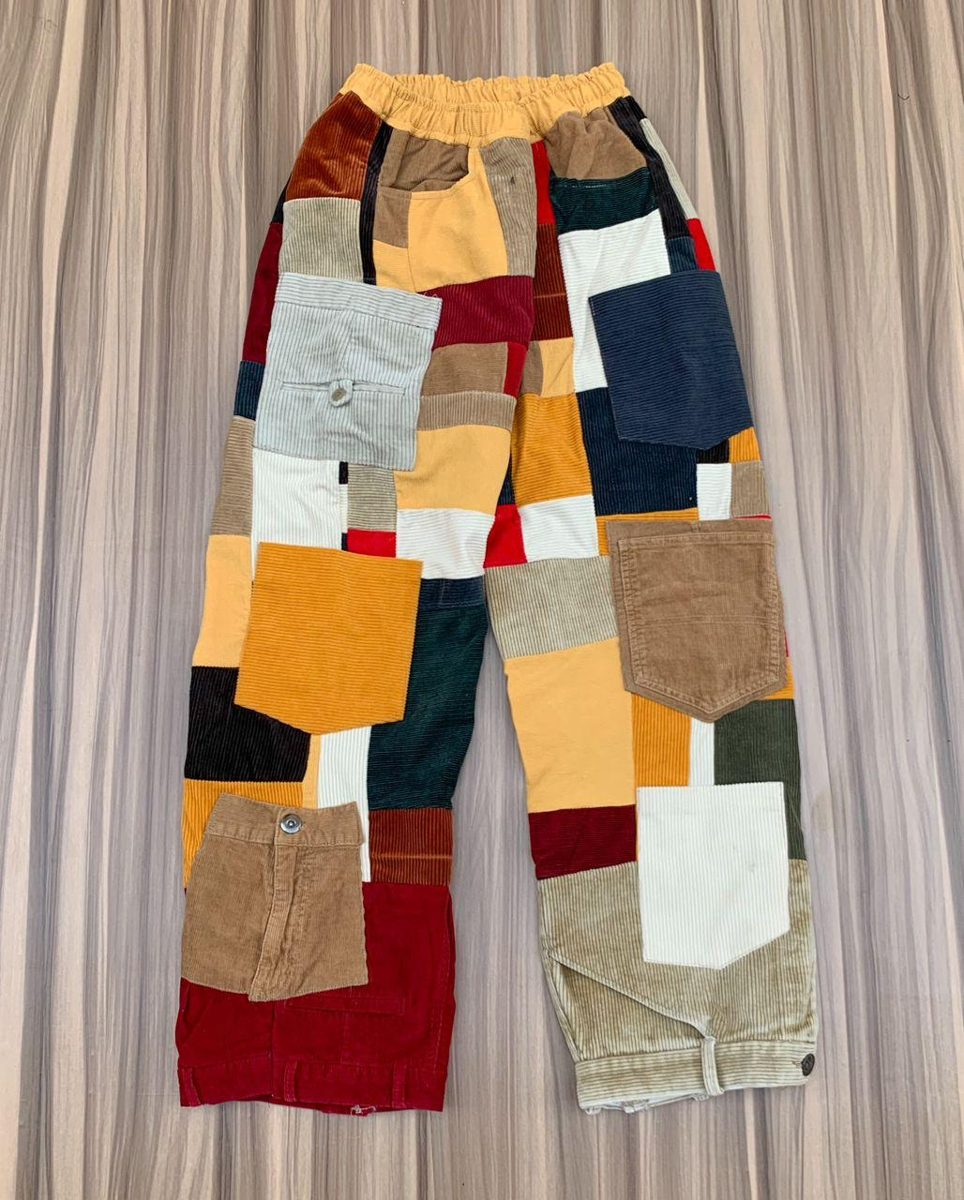
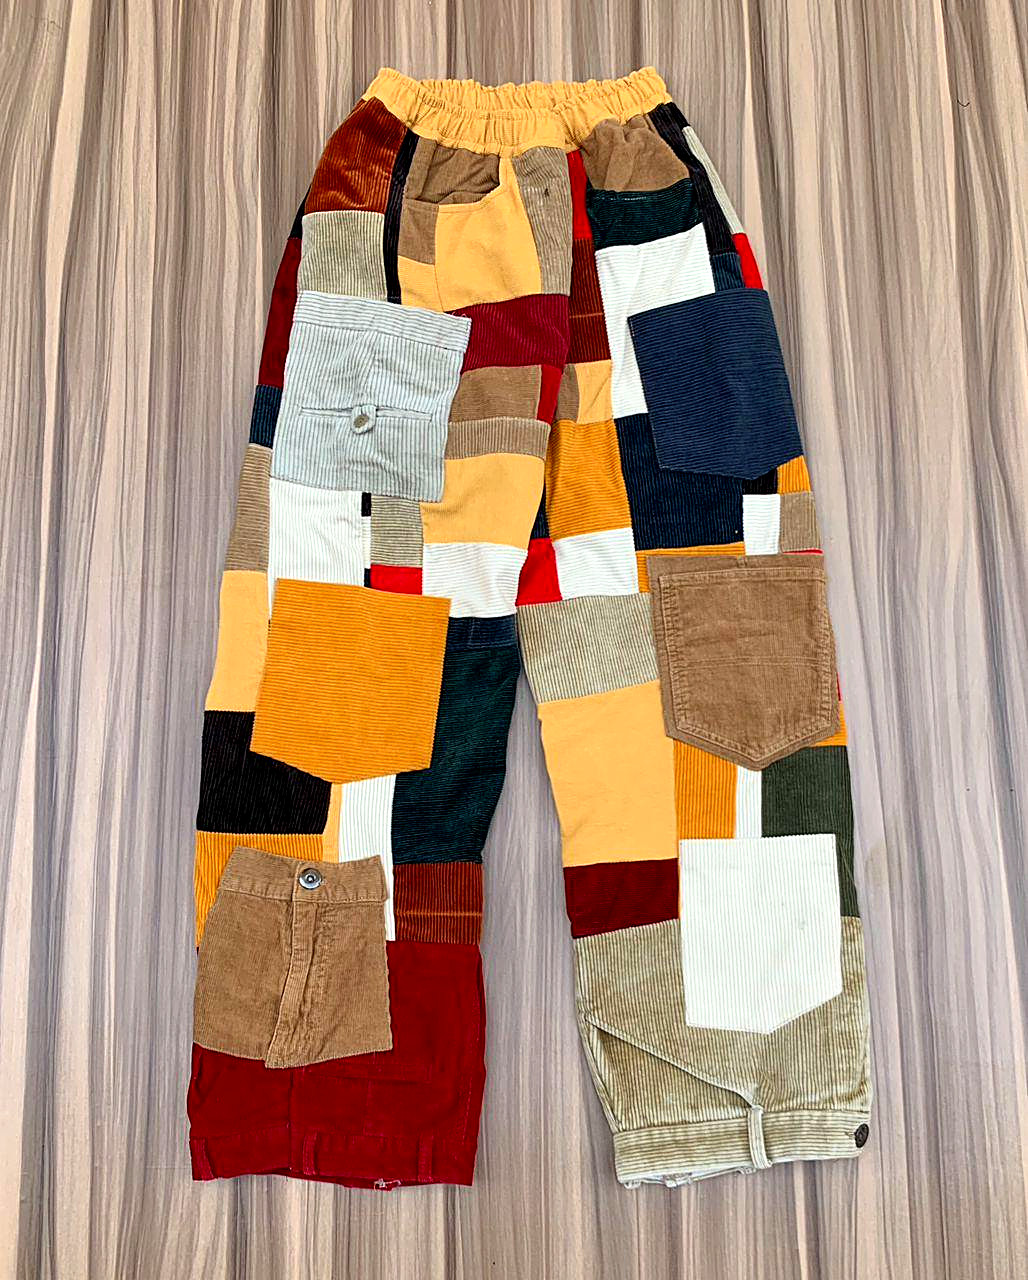
KACE: sharper, richer photos served at the right size
- Re-processed every photo from the originals at up to 2000px: phone photos and
  screenshots get a gentle levels, colour and contrast lift, small ones are
  enlarged up to 2x, and all are sharpened lightly; professional shoots keep
  their own edit. Saved as quality-90 JPEG without camera or location data
- scripts/prepare_photos.py makes this repeatable for new photos
- All photos now go through next/image (new Photo component): AVIF/WebP at the
  right width for each screen and retina display, with priority loading for the
  first images on a page
- Homepage hero now leads with a Lookbook shoot photo beside two patchwork pieces

Claude-Session: https://claude.ai/code/session_0174vh4CrbubMbbCDjb7WMt2

diff --git a/kace-collections/src/app/page.tsx b/kace-collections/src/app/page.tsx
@@ -1,6 +1,7 @@
 import Link from "next/link";
 import { findProducts, PRODUCTS } from "@/lib/catalogue";
 import { LOOKS } from "@/lib/lookbook";
+import { Photo } from "@/components/Photo";
 import { ProductArt } from "@/components/ProductArt";
 import { ProductGrid } from "@/components/ProductCard";
 
@@ -10,7 +11,8 @@ export const revalidate = 3600;
 export default function Home() {
   const newest = findProducts({ sort: "newest" }).slice(0, 4);
   const onSale = findProducts({ sale: true }).slice(0, 4);
-  const heroPieces = ["patchwork-corduroy-set", "patchwork-denim-jacket", "patchwork-corduroy-trousers"].map((s) => PRODUCTS.find((p) => p.slug === s)!);
+  const heroPieces = ["patchwork-corduroy-set", "patchwork-denim-jacket"].map((s) => PRODUCTS.find((p) => p.slug === s)!);
+  const heroLook = LOOKS.find((l) => l.slug === "cream-and-black")!;
   const women = PRODUCTS.find((p) => p.slug === "print-trim-tunic-set")!;
   const men = PRODUCTS.find((p) => p.slug === "brown-denim-cargo-set")!;
 
@@ -31,12 +33,12 @@ export default function Home() {
           </div>
         </div>
         <div className="grid grid-cols-[1.3fr_1fr] gap-3">
-          <Link href={`/products/${heroPieces[0].slug}`} className="row-span-2 bg-sand">
-            <ProductArt product={heroPieces[0]} className="h-full w-full" />
+          <Link href={`/lookbook#${heroLook.slug}`} className="row-span-2">
+            <Photo src={heroLook.photos[0].src} alt={heroLook.photos[0].alt} className="h-full min-h-80 w-full" sizes="(min-width: 768px) 30vw, 58vw" priority focus="50% 30%" />
           </Link>
-          {heroPieces.slice(1).map((p) => (
-            <Link key={p.slug} href={`/products/${p.slug}`} className="bg-sand">
-              <ProductArt product={p} className="aspect-[3/4] w-full" />
+          {heroPieces.map((p) => (
+            <Link key={p.slug} href={`/products/${p.slug}`}>
+              <ProductArt product={p} className="aspect-[3/4] w-full" sizes="(min-width: 768px) 20vw, 40vw" priority />
             </Link>
           ))}
         </div>
@@ -71,8 +73,7 @@ export default function Home() {
 
       <section className="gutter mx-auto mt-20 grid max-w-7xl items-center gap-8 md:grid-cols-[1fr_1.1fr]">
         <Link href="/lookbook" className="group block overflow-hidden bg-sand">
-          {/* eslint-disable-next-line @next/next/no-img-element */}
-          <img src={LOOKS[0].photos[0].src} alt={LOOKS[0].photos[0].alt} loading="lazy" className="aspect-[4/5] w-full object-cover transition-transform duration-500 group-hover:scale-[1.03]" />
+          <Photo src={LOOKS[0].photos[0].src} alt={LOOKS[0].photos[0].alt} className="aspect-[4/5] w-full transition-transform duration-500 group-hover:scale-[1.03]" sizes="(min-width: 768px) 45vw, 100vw" focus="50% 35%" />
         </Link>
         <div className="space-y-5">
           <p className="eyebrow text-forest">Lookbook and custom orders</p>
@@ -97,8 +98,7 @@ export default function Home() {
       <section className="gutter mx-auto mt-20 max-w-7xl">
         <div className="grid gap-8 bg-ink p-8 text-paper md:grid-cols-[1fr_1.2fr] md:items-center md:p-14">
           <figure className="space-y-2">
-            {/* eslint-disable-next-line @next/next/no-img-element */}
-            <img src="/products/kwadwoman-patchwork-shoot.jpg" alt="Two models in Kwadwo Man patchwork corduroy jackets and trousers" loading="lazy" className="w-full" />
+            <Photo src="/products/kwadwoman-patchwork-shoot.jpg" alt="Two models in Kwadwo Man patchwork corduroy jackets and trousers" className="aspect-[1656/1748] w-full" sizes="(min-width: 768px) 40vw, 100vw" />
             <figcaption className="text-xs text-paper/60">Patchwork corduroy by Kwadwo Man</figcaption>
           </figure>
           <div className="space-y-4 text-paper/80">

diff --git a/kace-collections/src/app/lookbook/page.tsx b/kace-collections/src/app/lookbook/page.tsx
@@ -1,5 +1,6 @@
 import type { Metadata } from "next";
 import Link from "next/link";
+import { Photo } from "@/components/Photo";
 import { PageHeader } from "@/components/Prose";
 import { ProductCard } from "@/components/ProductCard";
 import { getProduct } from "@/lib/catalogue";
@@ -20,13 +21,11 @@ export default function Lookbook() {
           return (
             <article key={look.slug} id={look.slug} className="grid scroll-mt-32 items-center gap-8 md:grid-cols-2 md:gap-14">
               <figure className={i % 2 ? "md:order-2" : undefined}>
-                {/* eslint-disable-next-line @next/next/no-img-element */}
-                <img src={look.photos[0].src} alt={look.photos[0].alt} loading={i ? "lazy" : "eager"} className="aspect-[2/3] w-full object-cover" />
+                <Photo src={look.photos[0].src} alt={look.photos[0].alt} className="aspect-[2/3] w-full" sizes="(min-width: 768px) 48vw, 100vw" priority={i === 0} />
                 {look.photos.length > 1 && (
                   <div className="mt-3 grid grid-cols-3 gap-3">
                     {look.photos.slice(1).map((photo) => (
-                      // eslint-disable-next-line @next/next/no-img-element
-                      <img key={photo.src} src={photo.src} alt={photo.alt} loading="lazy" className="aspect-[3/4] w-full object-cover" />
+                      <Photo key={photo.src} src={photo.src} alt={photo.alt} className="aspect-[3/4] w-full" sizes="(min-width: 768px) 16vw, 33vw" />
                     ))}
                   </div>
                 )}

diff --git a/kace-collections/src/components/ProductArt.tsx b/kace-collections/src/components/ProductArt.tsx
@@ -1,6 +1,7 @@
 // Drawn artwork standing in for product photos until real ones arrive:
 // the garment's outline filled with its cloth.
 import type { PatternKind, Product, Silhouette } from "@/lib/catalogue";
+import { Photo } from "./Photo";
 
 const SHAPES: Record<Silhouette, string> = {
   dress: "M116 56 Q150 80 184 56 L236 76 L262 158 L226 168 L214 132 L230 352 L70 352 L86 132 L74 168 L38 158 L64 76 Z",
@@ -96,10 +97,11 @@ function Fill({ id, kind, colors }: { id: string; kind: PatternKind; colors: str
   }
 }
 
-export function ProductArt({ product, className = "" }: { product: Product; className?: string }) {
+const CARD_SIZES = "(min-width: 1024px) 22vw, (min-width: 768px) 30vw, 50vw";
+
+export function ProductArt({ product, className = "", sizes = CARD_SIZES, priority }: { product: Product; className?: string; sizes?: string; priority?: boolean }) {
   if (product.photo) {
-    // eslint-disable-next-line @next/next/no-img-element -- plain img keeps the photo crisp at every card size
-    return <img src={product.photo.src} alt={product.photo.alt} loading="lazy" className={`${className} object-cover`} />;
+    return <Photo src={product.photo.src} alt={product.photo.alt} className={className} sizes={sizes} priority={priority} />;
   }
   const { silhouette, pattern, colors } = product.art;
   const id = `cloth-${product.slug}`;

diff --git a/kace-collections/src/app/custom/page.tsx b/kace-collections/src/app/custom/page.tsx
@@ -1,5 +1,6 @@
 import type { Metadata } from "next";
 import Link from "next/link";
+import { Photo } from "@/components/Photo";
 import { PageHeader } from "@/components/Prose";
 import { getLook } from "@/lib/lookbook";
 import { SITE } from "@/lib/site";
@@ -29,8 +30,7 @@ export default async function Custom({ searchParams }: { searchParams: Promise<{
 
       {look && (
         <div className="mt-8 flex items-center gap-4 border border-line p-4">
-          {/* eslint-disable-next-line @next/next/no-img-element */}
-          <img src={look.photos[0].src} alt="" className="h-24 w-16 object-cover" />
+          <Photo src={look.photos[0].src} alt="" className="h-24 w-16 shrink-0" sizes="64px" />
           <p>
             You&apos;re asking about <strong>{look.title}</strong>.{" "}
             <Link href={`/lookbook#${look.slug}`} className="underline underline-offset-4">See the look</Link>

diff --git a/kace-collections/src/components/Photo.tsx b/kace-collections/src/components/Photo.tsx
@@ -1,0 +1,22 @@
+import Image from "next/image";
+
+type Props = {
+  src: string;
+  alt: string;
+  /** Sizing classes for the frame, e.g. "aspect-[3/4] w-full". The photo fills and crops to it. */
+  className?: string;
+  /** How wide the photo shows at each screen size, so the browser picks the right file. */
+  sizes: string;
+  priority?: boolean;
+  /** Where to keep the focus when cropping, as CSS object-position. */
+  focus?: string;
+};
+
+// A photo in a fixed frame, served sharp and light by next/image.
+export function Photo({ src, alt, className = "", sizes, priority, focus = "center" }: Props) {
+  return (
+    <span className={`relative block overflow-hidden bg-sand ${className}`}>
+      <Image src={src} alt={alt} fill sizes={sizes} quality={85} priority={priority} className="object-cover" style={{ objectPosition: focus }} />
+    </span>
+  );
+}

diff --git a/kace-collections/src/app/products/[slug]/page.tsx b/kace-collections/src/app/products/[slug]/page.tsx
@@ -36,7 +36,7 @@ export default async function ProductPage({ params }: Params) {
 
       <div className="grid gap-10 md:grid-cols-[1.2fr_1fr] lg:gap-16">
         <div className="bg-sand">
-          <ProductArt product={product} className="aspect-[3/4] w-full" />
+          <ProductArt product={product} className="aspect-[3/4] w-full" sizes="(min-width: 768px) 55vw, 100vw" priority />
           <p className="px-4 py-3 text-xs text-muted">
             {product.photo ? `Photo: ${product.designer}` : "Illustration. Product photos coming soon."}
           </p>

diff --git a/kace-collections/next.config.ts b/kace-collections/next.config.ts
@@ -2,6 +2,13 @@ import type { NextConfig } from "next";
 
 const nextConfig: NextConfig = {
   poweredByHeader: false,
+  // Photos are served as AVIF or WebP at the right width for each screen, so they stay sharp on
+  // high-resolution phones without slowing the page down.
+  images: {
+    formats: ["image/avif", "image/webp"],
+    qualities: [75, 85],
+    minimumCacheTTL: 60 * 60 * 24 * 30,
+  },
 };
 
 export default nextConfig;

diff --git a/kace-collections/scripts/prepare_photos.py b/kace-collections/scripts/prepare_photos.py
@@ -1,0 +1,76 @@
+"""Prepare product and lookbook photos for the site.
+
+Usage: python3 -I scripts/prepare_photos.py <folder with the original photos>
+
+Each entry below names an original file, an optional crop box (left, top, right, bottom) and a
+treatment:
+  "shoot"   professional photos that are already edited: resize and a light sharpen only.
+  "phone"   phone photos and screenshots: gentle levels, colour and contrast lift, upscale
+            small images, and sharpen, so they sit well next to the shoot photos.
+The output is saved as high-quality JPEG without camera or location data. The site then serves
+AVIF/WebP versions at the right size for each screen (next/image).
+"""
+import sys
+from pathlib import Path
+
+from PIL import Image, ImageEnhance, ImageFilter, ImageOps
+
+OUT = Path(__file__).resolve().parent.parent / "public"
+LONG_SIDE = 2000
+
+PHOTOS = [
+    # (output path, original file, crop box, treatment)
+    ("products/patchwork-pink-corduroy-trousers.jpg", "64b52dab-image.jpg", None, "phone"),
+    ("products/patchwork-corduroy-set.jpg", "a0772720-image.jpg", None, "phone"),
+    ("products/patchwork-denim-trousers.jpg", "011395b5-image.jpg", (0, 272, 592, 1004), "phone"),
+    ("products/patchwork-denim-jacket.jpg", "6f1a4d1f-image.jpg", (0, 322, 592, 976), "phone"),
+    ("products/patchwork-corduroy-trousers.jpg", "cb604523-image.jpg", None, "phone"),
+    ("products/patchwork-corduroy-trousers-teal.jpg", "93c4512e-image.jpg", (0, 300, 498, 906), "phone"),
+    ("products/kwadwoman-patchwork-shoot.jpg", "0d36f33d-image.jpg", (0, 125, 828, 999), "shoot"),
+    ("lookbook/city-casual.jpg", "7870e9d7-image.jpg", None, "shoot"),
+    ("lookbook/city-casual-2.jpg", "cad18657-image.jpg", None, "shoot"),
+    ("lookbook/city-casual-3.jpg", "919c3cbf-image.jpg", None, "shoot"),
+    ("lookbook/cream-and-black.jpg", "74d03160-image.jpg", None, "shoot"),
+    ("lookbook/sharp-commute.jpg", "8e9fbac3-image.jpg", None, "shoot"),
+    ("lookbook/sharp-commute-2.jpg", "2b703bd8-image.jpg", None, "shoot"),
+    ("lookbook/autumn-layers.jpg", "0f2147a5-image.jpg", None, "phone"),
+    ("lookbook/patchwork-weekend.jpg", "49440125-image.jpg", (220, 420, 960, 1600), "phone"),
+]
+
+
+def fit(im: Image.Image, long_side: int) -> Image.Image:
+    scale = long_side / max(im.size)
+    if scale >= 1 and max(im.size) >= 1200:
+        return im  # big enough already; never enlarge good photos
+    scale = min(scale, 2.0)  # small screenshots: enlarge at most 2x
+    return im.resize((round(im.width * scale), round(im.height * scale)), Image.Resampling.LANCZOS)
+
+
+def prepare(src: Path, box, treatment: str) -> Image.Image:
+    im = ImageOps.exif_transpose(Image.open(src)).convert("RGB")
+    if box:
+        im = im.crop(box)
+    if treatment == "phone":
+        im = ImageOps.autocontrast(im, cutoff=0.4, preserve_tone=True)
+        im = ImageEnhance.Color(im).enhance(1.08)
+        im = ImageEnhance.Contrast(im).enhance(1.05)
+        im = fit(im, LONG_SIDE)
+        im = im.filter(ImageFilter.UnsharpMask(radius=1.6, percent=55, threshold=3))
+    else:
+        im = fit(im, LONG_SIDE)
+        im = im.filter(ImageFilter.UnsharpMask(radius=0.8, percent=25, threshold=2))
+    return im
+
+
+def main(folder: str) -> None:
+    for out, name, box, treatment in PHOTOS:
+        im = prepare(Path(folder) / name, box, treatment)
+        target = OUT / out
+        target.parent.mkdir(parents=True, exist_ok=True)
+        # No exif= argument, so no camera or location data is written.
+        im.save(target, "JPEG", quality=90, subsampling=0, optimize=True, progressive=True)
+        print(f"{out}: {im.width}x{im.height}")
+
+
+if __name__ == "__main__":
+    main(sys.argv[1])

diff --git a/kace-collections/README.md b/kace-collections/README.md
@@ -38,5 +38,9 @@ Fonts (Archivo, Hanken Grotesk) are SIL Open Font Licence and served from `publi
 
 Product photos in `public/products` belong to the designer Kwadwo Man and are used with his permission for
 selling his pieces on this site; they are credited on each product page. Location and camera data are
-removed before adding a photo. Products without a photo show a drawn illustration. Never add photos
+removed before adding a photo.
+To add or re-process photos, list them in `scripts/prepare_photos.py` and run
+`python3 -I scripts/prepare_photos.py <folder of originals>` (needs Pillow). It lifts phone photos
+gently, keeps professional shoots as shot, and saves high-quality JPEGs; the site serves them as
+AVIF/WebP sized for each screen. Products without a photo show a drawn illustration. Never add photos
 from other brands, influencers or AI generators as product photos.
